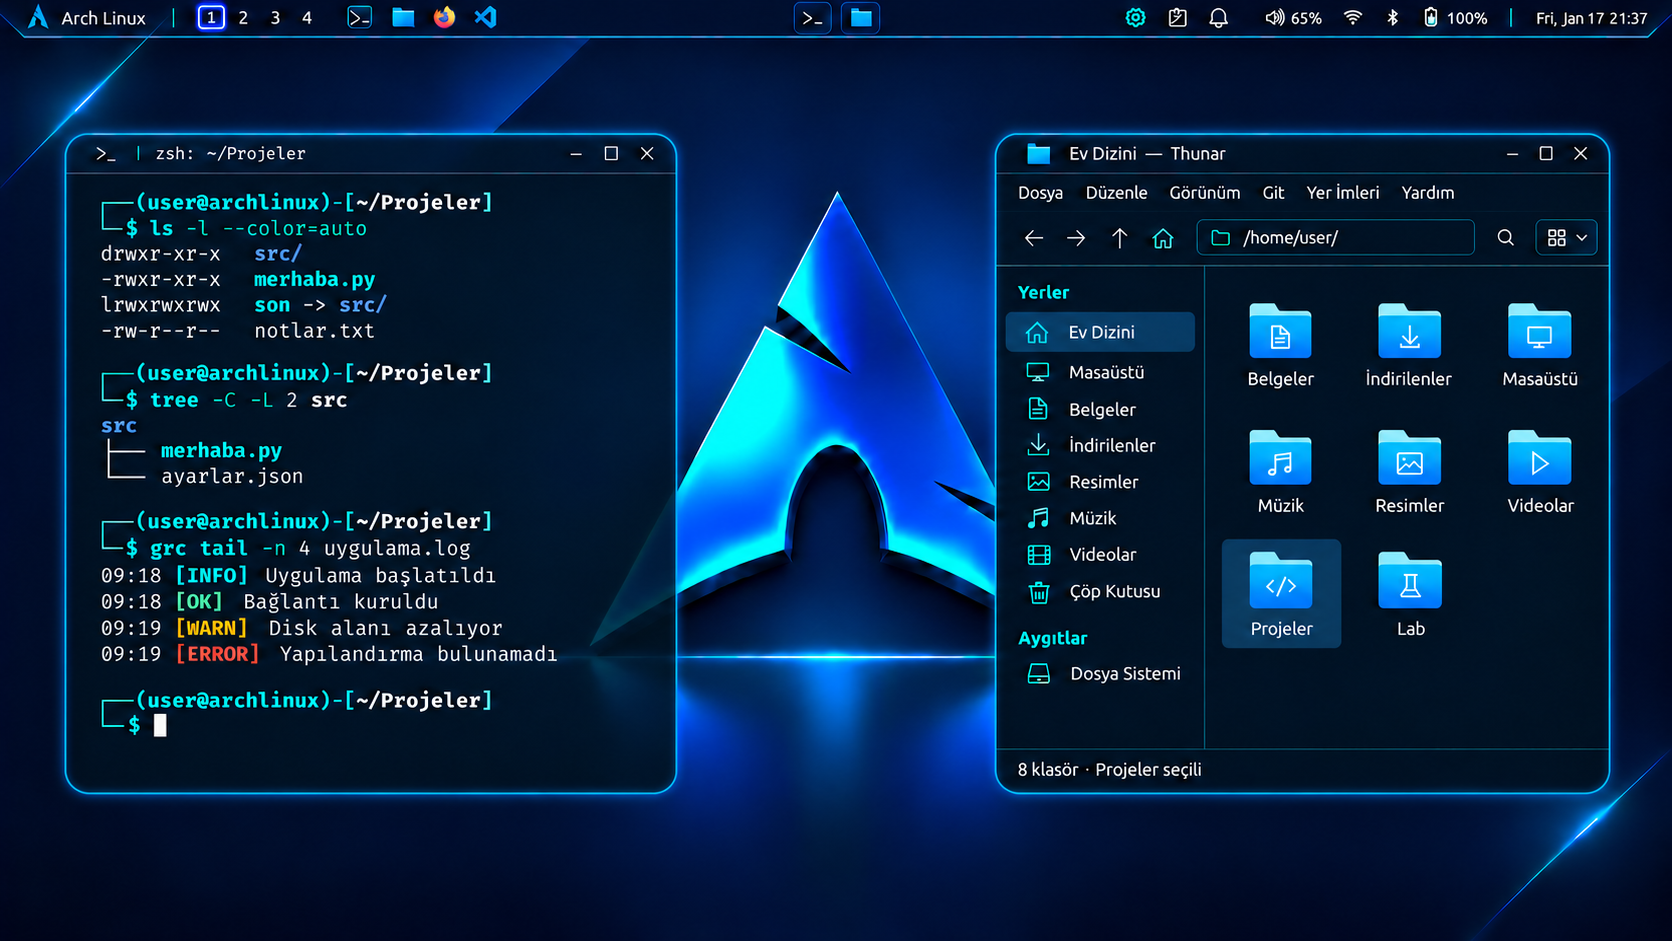
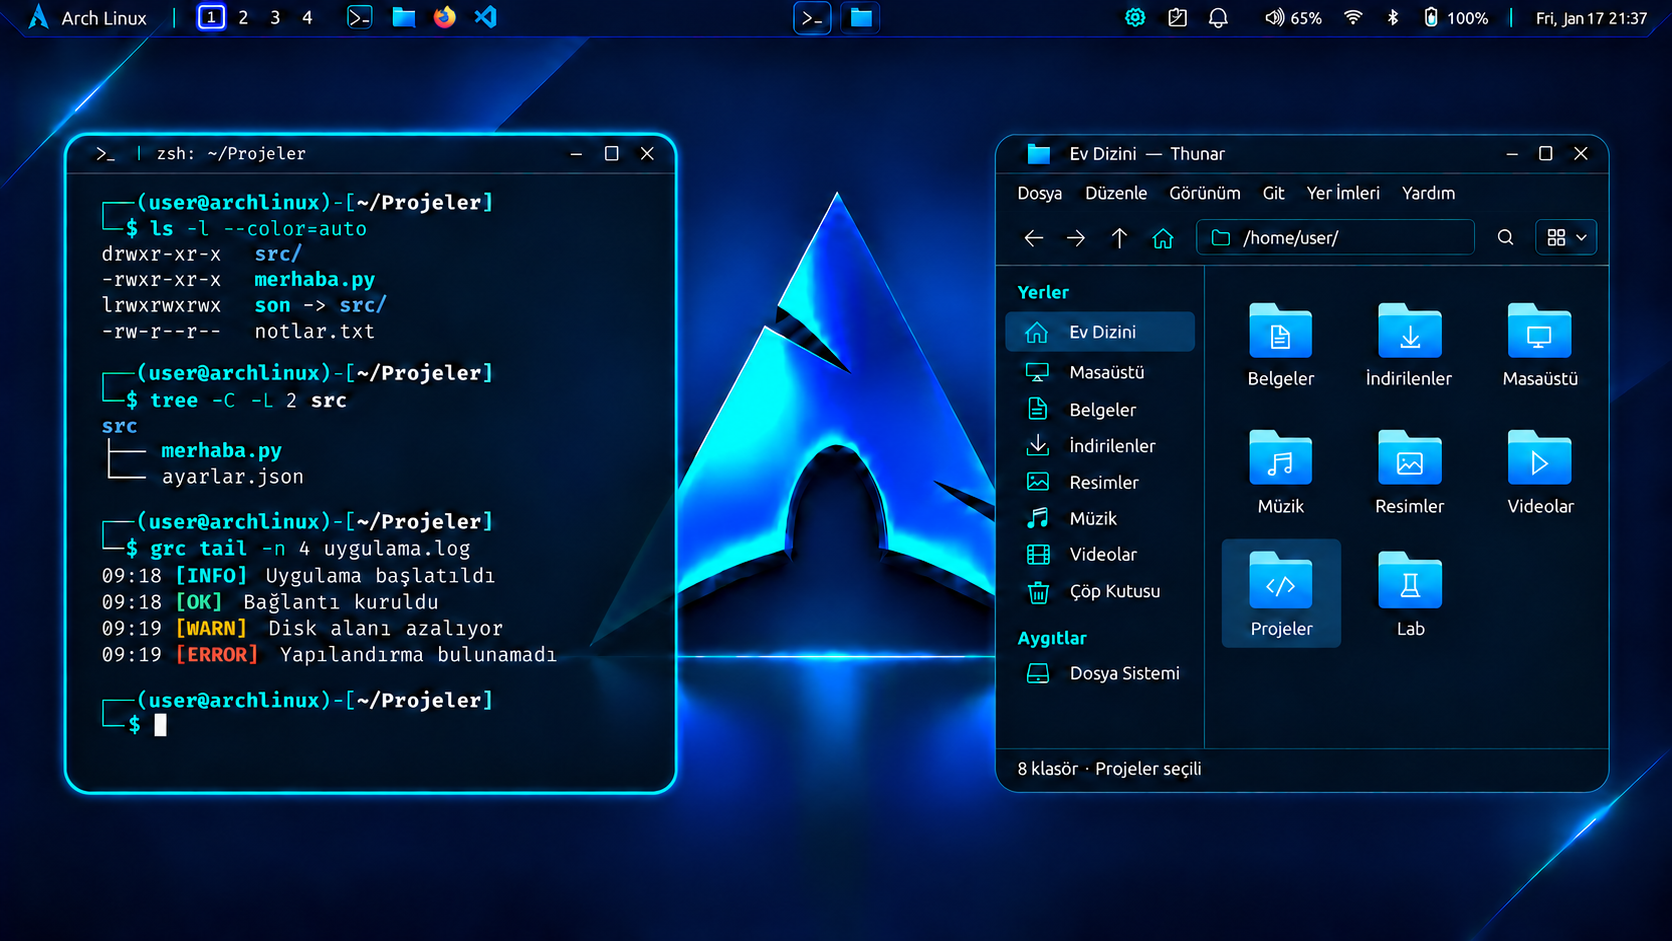
Add focused window emphasis and uniform dark blue panel

diff --git a/README.md b/README.md
@@ -2,7 +2,7 @@
 
 Koyu lacivert Arch masaüstü; üst görev çubuğu, Zsh terminali, Thunar, açılış ve kilit ekranı için onaylı tasarım ve kurulum tanımları.
 
-**Güncel sürüm: v1.0.2.** Güncel kaynak her zaman [`paket/`](paket/) dizinidir. Kurulumu hedef Arch Linux bilgisayarındaki Codex, gerçek masaüstü ve donanımı inceleyerek uygular. Bu repo, kurulumun tamamlandığını gösteren bir sistem imajı veya tek komutluk otomatik yükleyici değildir.
+**Güncel sürüm: v1.0.3.** Güncel kaynak her zaman [`paket/`](paket/) dizinidir. Kurulumu hedef Arch Linux bilgisayarındaki Codex, gerçek masaüstü ve donanımı inceleyerek uygular. Bu repo, kurulumun tamamlandığını gösteren bir sistem imajı veya tek komutluk otomatik yükleyici değildir.
 
 ![Terminal ve Thunar masaüstü önizlemesi](paket/02-onayli-masaustu.png)
 
@@ -23,8 +23,9 @@ Ardından bu klasörde Codex'e [`KURULUM.md`](KURULUM.md) ve `paket/` içindeki 
 ## Tasarım ve özellikler
 
 - Terminal ve Thunar: mevcut koyu lacivert zemin, **%80 zemin opaklığı**, tam opak yazı/simgeler ve son seçilen Thunar görselindeki doygun mavi ince dış kontur ve dar/yumuşak, eşit ışık.
+- Etkin pencere belirgin mavi çerçeve, diğer pencereler sakin kontur kullanır; vurgu gerçek klavye odağıyla yer değiştirir ve panelde ilgili uygulama simgesiyle eşleşir.
 - Terminal: Fira Code 10 pt, Zsh, iki satırlı dinamik dizin istemi, Kali temelli yazı/çıktı renkleri, geçmiş önerileri ve arama. İnce, yarı saydam, **üçgensiz** bölücüler ve bağımsız bölümler.
-- Üst panel: kesintisiz, tek renk mavi alt çizgi ve aynı mavi eğimli uçlar; beyaz kenar parlaması yok. Açık uygulamalar yalnız kendi simgeleriyle gösterilir, isim/başlık/yol yazılmaz. Dört çalışma alanı, pano geçmişi, bildirimler ve açılır sistem/batarya kutuları korunur. Donanım verileri gerçek ölçülür.
+- Üst panel: kesintisiz, okla seçilen tek renk koyu mavi `#02258D` alt çizgi ve aynı mavi eğimli uçlar; beyaz kenar parlaması yok. Açık uygulamalar yalnız kendi simgeleriyle gösterilir, isim/başlık/yol yazılmaz. Dört çalışma alanı, pano geçmişi, bildirimler ve açılır sistem/batarya kutuları korunur. Donanım verileri gerçek ölçülür.
 - Onaylı kısayollar, seçim/kopyalama/yapıştırma davranışları, ekran görüntüsü/kaydı, tema dışa aktarma ve uzun işlem bildirimi.
 - Donanım destekliyorsa Ev şarj sınırları %55/%80, Seyahat geçici %100. Açılış, giriş ve gerçek oturum kilidi korunur.
 

diff --git a/KURULUM.md b/KURULUM.md
@@ -21,9 +21,10 @@ Gerekli bileşenleri gerçek Arch paket kaynakları ve kurulu sürümlerle doğr
 Şu ayrıntılar özellikle korunmalı:
 
 - Duvar kâğıdı `01`; logo boyutu/konumu ve yansımalar korunur. Üst panel ve açık pencere yerleşimi `02`.
-- Üst panelin alt çizgisi ve eğimli uçları aynı tek renk mavi `#237DB5` olsun; aqua/yeşil renk kayması, kesinti, beyaz uç veya parlama ekleme. Orta bölümde açık uygulamalar yalnız kendi logolarını gösterir; uygulama adı, pencere başlığı veya dizin yolu yazılmaz. Adlar fareyle üzerine gelince ipucunda gösterilir; odak/alta alma/geri getirme ve çoklu pencere erişimi korunur.
+- Üst panelin alt çizgisi ve eğimli uçları aynı tek renk mavi `#02258D` olsun; aqua/yeşil renk kayması, kesinti, beyaz uç veya parlama ekleme. Orta bölümde açık uygulamalar yalnız kendi logolarını gösterir; uygulama adı, pencere başlığı veya dizin yolu yazılmaz. Adlar fareyle üzerine gelince ipucunda gösterilir; odak/alta alma/geri getirme ve çoklu pencere erişimi korunur.
 - Terminal dışı `03`, ince ve üçgensiz bölücüler `07/08`, dosya/log ve istem renkleri `08/09`. Fira Code 10 pt ve JSON'daki kesin RGB değerleri uygulanır.
 - Terminal ve Thunar zeminleri %80 opak; metin/simge/grafikler tam opak. Genel pencere soldurması veya içerikte sabit logo resmiyle taklit yok. Dış kontur tonu/ışığı `11`deki son seçilmiş doygun mavi ve dar/yumuşak hale gibi; tüm kenar/köşelerde eşit. `ortak_pencere_stili.dis_kontur_ve_hale` uygulanır. Önceden onaylı istem/çıktı ve iç bölücü renklerini bu düzeltmeyle değiştirme.
+- `ortak_pencere_stili.odak_vurgusu`: gerçek klavye odağı olan pencere belirgin, diğerleri sakin çerçevelidir. Tıklama/Alt+Tab/panel/çalışma alanı/modal değişiminde vurgu doğru pencereye ve yalnız ilgili uygulama simgesine geçer. Metin/ikon/içerik opaklığını bununla değiştirme; eşit ışığı her pencerenin kendi çevresinde koru.
 - Thunar `11` gibi gerçek dosyalarla çalışır. Açılış ve giriş/kilit `05/06`; batarya kutusu `10`.
 - Bütün 27 kısayol, bölmeler/sekmeler, geçmiş/arama, Windows benzeri seçim, pano, bildirim/kayıt/dışa aktarma işlevleri uygulanır.
 - Sistem sensörleri/VRAM ve şarj eşikleri gerçek donanım yetenekleriyle doğrulanır; desteklenmeyen özellik için sahte başarı gösterilmez.

diff --git a/AGENTS.md b/AGENTS.md
@@ -12,7 +12,9 @@
 - Terminal ve Thunarın mevcut lacivert zemin rengi, %80 zemin opaklığı ve tam opak metin/simgeleri korunur. Dış çerçeve tonu/ışığı `11` görselindeki gibi doygun mavi, dar/yumuşak ve eşit; kesin değerler `ortak_pencere_stili.dis_kontur_ve_hale` içindedir. Bu düzeltme istem/yazı ve iç bölücü renklerini değiştirmez; iç bölücüler yaklaşık 2 px, yarı saydam ve üçgensiz.
 - Zsh, Fira Code 10 pt, iki satırlı dinamik istem ve kesin renkler JSON'dadır. Git istem modülü veya başarısız komutta ek çarpı/sayı rozeti yok.
 - Üst panel, açılış/kilit, Thunar, bütün kısayollar, pano/kayıt/dışa aktarma, sistem sensörleri ve donanıma bağlı batarya kuralları korunur. Başka bir görünüm tercih edildiğini varsayma.
-- Üst panelin alt çizgisi/eğimli uçları tek renk `#237DB5`, kesintisiz ve beyaz parlamasızdır. Açık uygulamalar yalnız simgeyle gösterilir; isim/başlık/yol etiketleri yok, adlar yalnız hover ipucundadır. Bu kural uygulamaların kendi pencere başlıklarını gizlemez.
+- Üst panelin alt çizgisi/eğimli uçları tek renk `#02258D`, kesintisiz ve beyaz parlamasızdır. Açık uygulamalar yalnız simgeyle gösterilir; isim/başlık/yol etiketleri yok, adlar yalnız hover ipucundadır. Bu kural uygulamaların kendi pencere başlıklarını gizlemez.
+
+- Gerçek odaktaki pencere mavi çerçevesiyle belirgin, pasif pencereler daha sakin olur; `ortak_pencere_stili.odak_vurgusu` uygulanır. Eşit ışık her pencerenin kendi çevresine aittir. %80 zemin/tam opak içerik korunur; yalnız gerçek odaktaki uygulama simgesi/grubu panelde vurgulanır.
 
 ## Değişiklik ve yayın
 

diff --git a/CHANGELOG.md b/CHANGELOG.md
@@ -1,5 +1,11 @@
 # Değişiklikler
 
+## v1.0.3 — 2026-11-27
+
+- Gerçek klavye odağı olan pencere belirgin mavi çerçeve, pasif pencereler daha sakin kontur/ışık kullanır. Vurgu odakla yer değiştirir; içerik ve yazılar soldurulmaz.
+- Panelde yalnız odaktaki uygulamanın simgesi/grubu belirginleşir. Bütün alt çizgi ve eğimli uçlar, kullanıcının okla seçtiği koyu mavi `#02258D` olarak tek renge sabitlendi.
+- Birlikte masaüstü önizlemesi ve kurulum/kabul tarifleri güncellendi. Önceki 27 kısayol, %80 zemin, yazı/istem renkleri, iç bölücüler ve diğer işlevler korunur.
+
 ## v1.0.2 — 2026-11-27
 
 - Terminal ve Thunar dış çerçeve rengi/ışığı, kullanıcının seçtiği Thunar referansına bağlandı: doygun mavi ince kontur, dar/yumuşak ve eşit mavi hale. Sayısal uygulama başlangıç değerleri ve karşılaştırma kapsamı eklendi.
